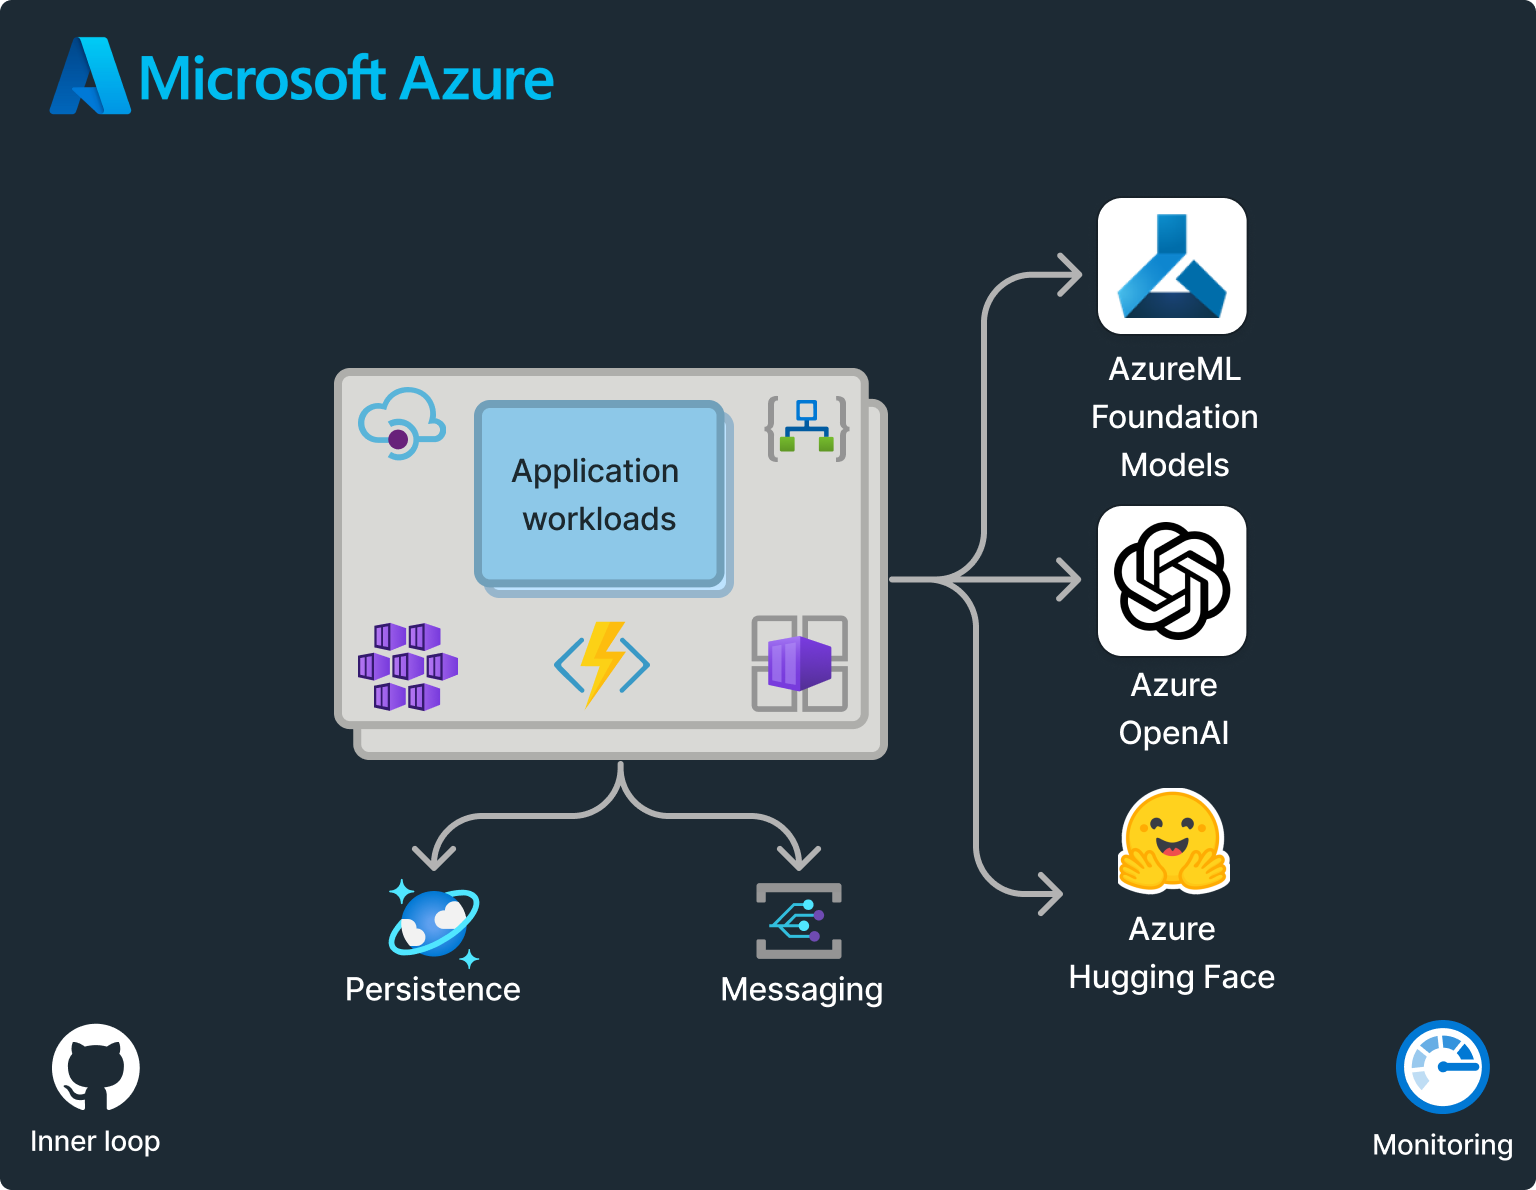
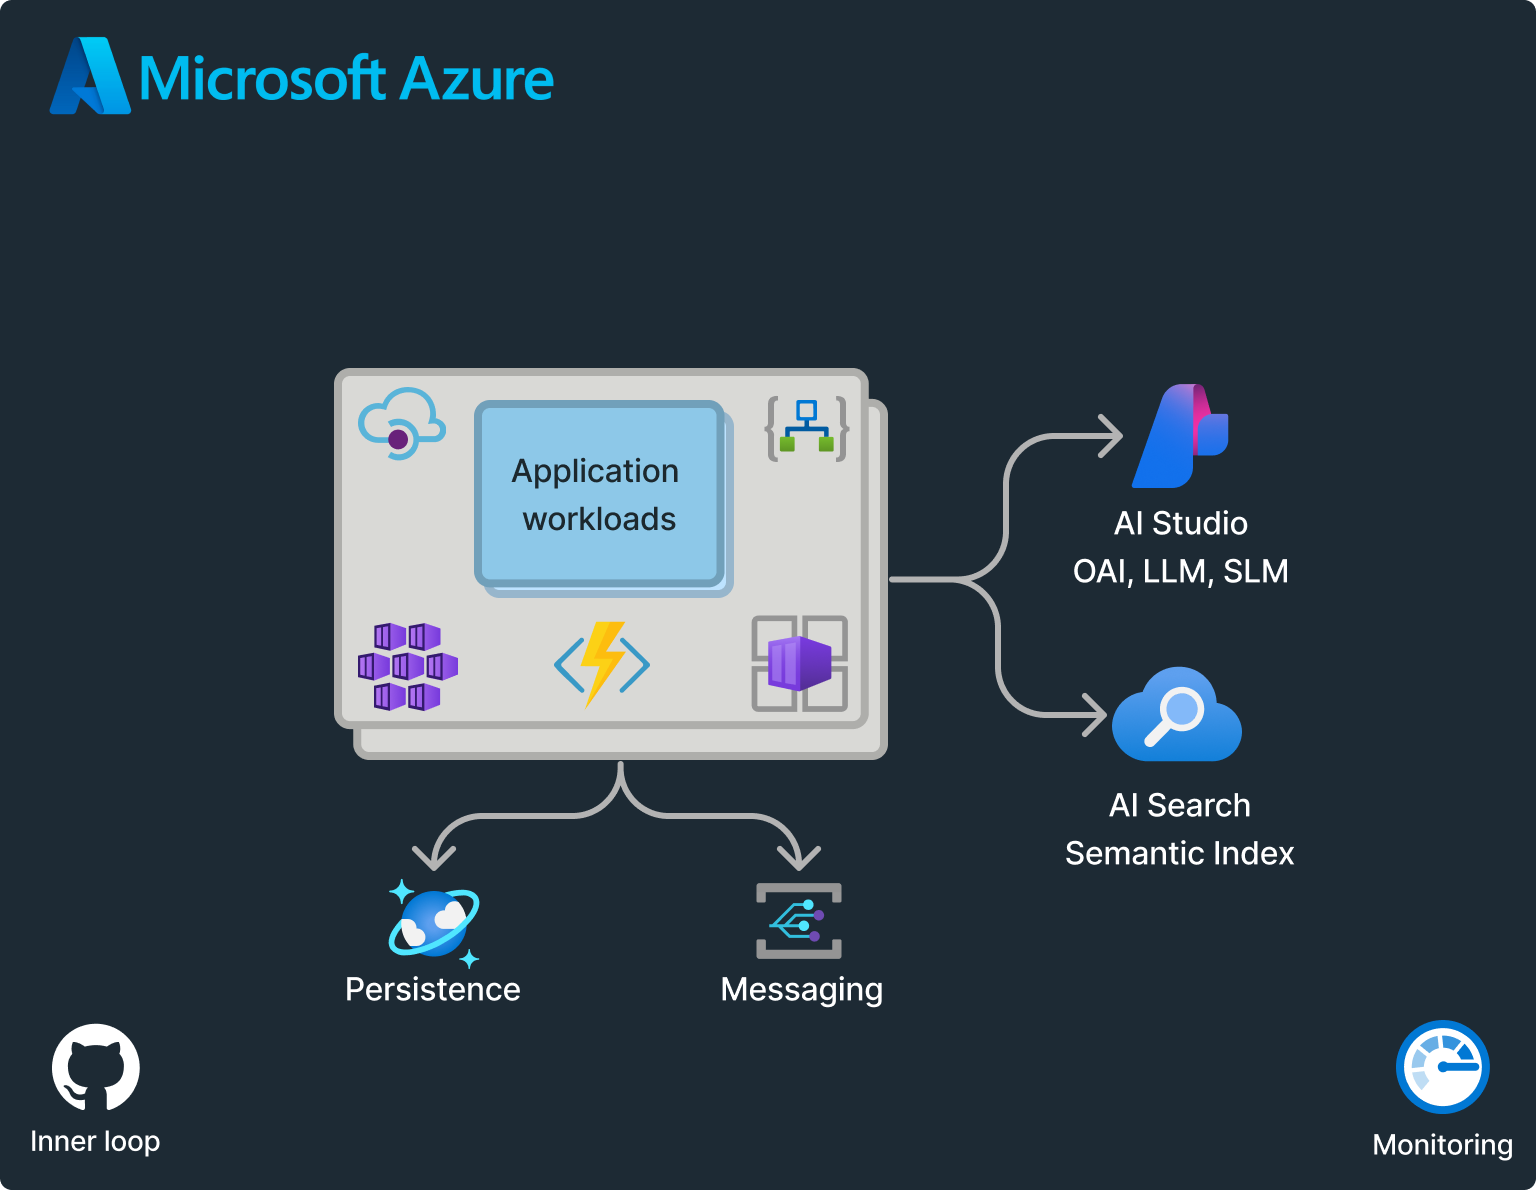
update home and index

Changed region(s): [[0.5938, 0.1555, 0.8438, 0.8395], [0.6562, 0.7462, 0.6875, 0.7773]]

diff --git a/README.md b/README.md
@@ -1,32 +1,34 @@
-# Intelligent app workshop
+# Envisioning Workshop: Build Your Own Custom Copilot
 
 [![Open in Visual Studio Code](https://img.shields.io/static/v1?logo=visualstudiocode&label=&message=Open%20in%20VS%20Code&labelColor=2c2c32&color=007acc&logoColor=007acc)](https://github.dev/Azure/intelligent-app-workshop)
 [![License: CC BY-SA 4.0](https://img.shields.io/badge/License-CC%20BY--SA-222.svg)](https://creativecommons.org/licenses/by-sa/4.0/)
 
-This is an envisioning workshop, based on [Microsoft's Copilot stack](https://learn.microsoft.com/en-us/semantic-kernel/overview/#semantic-kernel-is-at-the-center-of-the-copilot-stack), to rethink user experience, architecture, and app development by leveraging the intelligence of foundation models. This comprehensive workshop utilizes the [Miyagi](https://github.com/Azure-Samples/miyagi) codebase and Semantic Kernel (SK), along with SK's Design thinking material, to guide you through the entire lifecycle of app development – from identifying user needs to deploying a fully functional, production-grade app on Azure.
+Welcome to this envisioning workshop designed to help you build your own custom Copilot using [Microsoft's Copilot stack](https://developer.microsoft.com/en-us/copilot). This workshop aims to rethink user experience, architecture, and app development by leveraging reasoning engines (Foundation models and Language Models) and semantic memory systems.
 
-> **Note**  
-> *Work in Progress*. Meanwhile, signup at [intelligentapp.dev](https://intelligentapp.dev) for updates and checkout our related repo that showcases Generative AI capabilities for cloud-native, event-driven microservices: [Azure/reddog-solutions](https://github.com/Azure/reddog-solutions#readme). As a mandatory pre-requisite, please signup for [Azure OpenAI (AOAI)](https://customervoice.microsoft.com/Pages/ResponsePage.aspx?id=v4j5cvGGr0GRqy180BHbR7en2Ais5pxKtso_Pz4b1_xUOFA5Qk1UWDRBMjg0WFhPMkIzTzhKQ1dWNyQlQCN0PWcu) and complete [Getting started with AOAI module](https://learn.microsoft.com/en-us/training/modules/get-started-openai/) to benefit from this workshop
->
-> :tv: For a preview, catch the [recording on Cosmos DB Live TV](https://www.youtube.com/watch?v=V8dlEvXdGEM&t=144s)
->
-> <p align="left"><a href="http://www.youtube.com/watch?feature=player_embedded&v=V8dlEvXdGEM&t=144s" target="_blank"><img src="docs/assets/images/video_recording.png" alt="Miyagi walkthrough" width="40%" height="40%" border="10" /></a></p> 
+## Workshop Overview
 
+In this comprehensive workshop, you will:
 
-Key takeaways:
+- Utilize Azure AI Studio for reasoning engines, Prompt Flow for LLMOps, AI Search for semantic retrieval systems, and Semantic Kernel for orchestration.
+- Work with [Miyagi](https://github.com/Azure-Samples/miyagi) codebase during the hands-on experiential workshop
+- Explore advanced capabilities such as AutoGen and GraphRag
 
-1. Uncover innovative ways to transform user experience and app design by integrating foundation models into interactions.
-2. Learn how to effectively harness Large Language Models (LLMs) with the [Miyagi](https://github.com/Azure-Samples/miyagi) codebase for streamlined development.
-3. Rethink how to serve your end-user needs with Semantic Kernel's Design Thinking workshop.
-4. Gain valuable insights into the production and deployment of apps powered by Large Language Models (LLMs).
+## Objectives
+
+This workshop will guide you through the entire lifecycle of app development, including:
+
+1. Identifying user needs
+2. Developing a fully functional, production-grade app
+3. Deploying your app on Azure with advanced capabilities
+
+By the end of this workshop, you will have a deeper understanding of how to leverage Microsoft's tools and technologies to create intelligent applications.
+
 
 <p align="center"><img src="docs/assets/images/basic-arch.png" width=50% /></p>
 
 ![wip-azure](docs/assets/images/wip-azure.png)
 
-![ui](docs/assets/images/ui-annotations.png)
 
-![plugins](docs/assets/images/plugin.png)
 
 ### Disclaimer
 

diff --git a/docs/index.md b/docs/index.md
@@ -1,18 +1,12 @@
 # Home
 
-Inspired by Github Copilot's impact on developer productivity, this experiential workshop is designed to demonstrate how you can infuse similar intelligence and product experience into traditional software systems. Using [Microsoft's Copilot stack](https://learn.microsoft.com/en-us/semantic-kernel/overview/#semantic-kernel-is-at-the-center-of-the-copilot-stack) and practical [use cases](https://iappwksp.com/wksp/05-use-cases/#use-cases), this workshop will guide you in envisioning and creating intelligent systems and agents that integrate foundation models throughout all stages of application development - from design and user experience to deployment, resulting in improved productivity and hyper-personalized product experiences. 
+Inspired by Github Copilot's impact on developer productivity, this experiential workshop is designed to demonstrate how you can infuse similar intelligence and product experience into traditional software systems. Using [Microsoft's Copilot stack](https://developer.microsoft.com/en-us/copilot) and practical [use cases](https://iappwksp.com/wksp/05-use-cases/#use-cases), this workshop will guide you in envisioning and creating intelligent systems and agents that integrate foundation models throughout your workflows and applications, resulting in improved productivity and hyper-personalized user experiences.
 
 [Sign up for updates](https://forms.office.com/r/rLds2s8RH1){ :target="_blank" .md-button .md-button--primary }
 
 !!! note ""
 
    :tv: For a preview, catch the [recording on :simple-youtube: Cosmos DB Live TV](https://www.youtube.com/watch?v=V8dlEvXdGEM&t=144s). For an overview on mental models, see [this video from Semantic Kernel's Channel](https://www.youtube.com/watch?v=EueJTTuluVQ&t=750s).
-
-
-
-By leveraging design thinking, [Project Miyagi](https://github.com/Azure-Samples/miyagi), and art-of-the-possible examples (with samples and skills from [Semantic Kernel (SK)](https://github.com/microsoft/semantic-kernel), [Miyagi](https://github.com/Azure-Samples/miyagi), and [Reddog](https://github.com/Azure/reddog-solutions)), this workshop offers a comprehensive, hands-on exploration of how foundation models can augment your applications with intelligence to create hyper-personalized product experiences and improve productivity. We will also have an Architecture Design Session (ADS) to unlock and operationalize the full potential of AI-infused applications for your organization.
-
-![miyagi-arch](assets/images/wip-azure.png)
 
 
 ## Topics for the workshop
